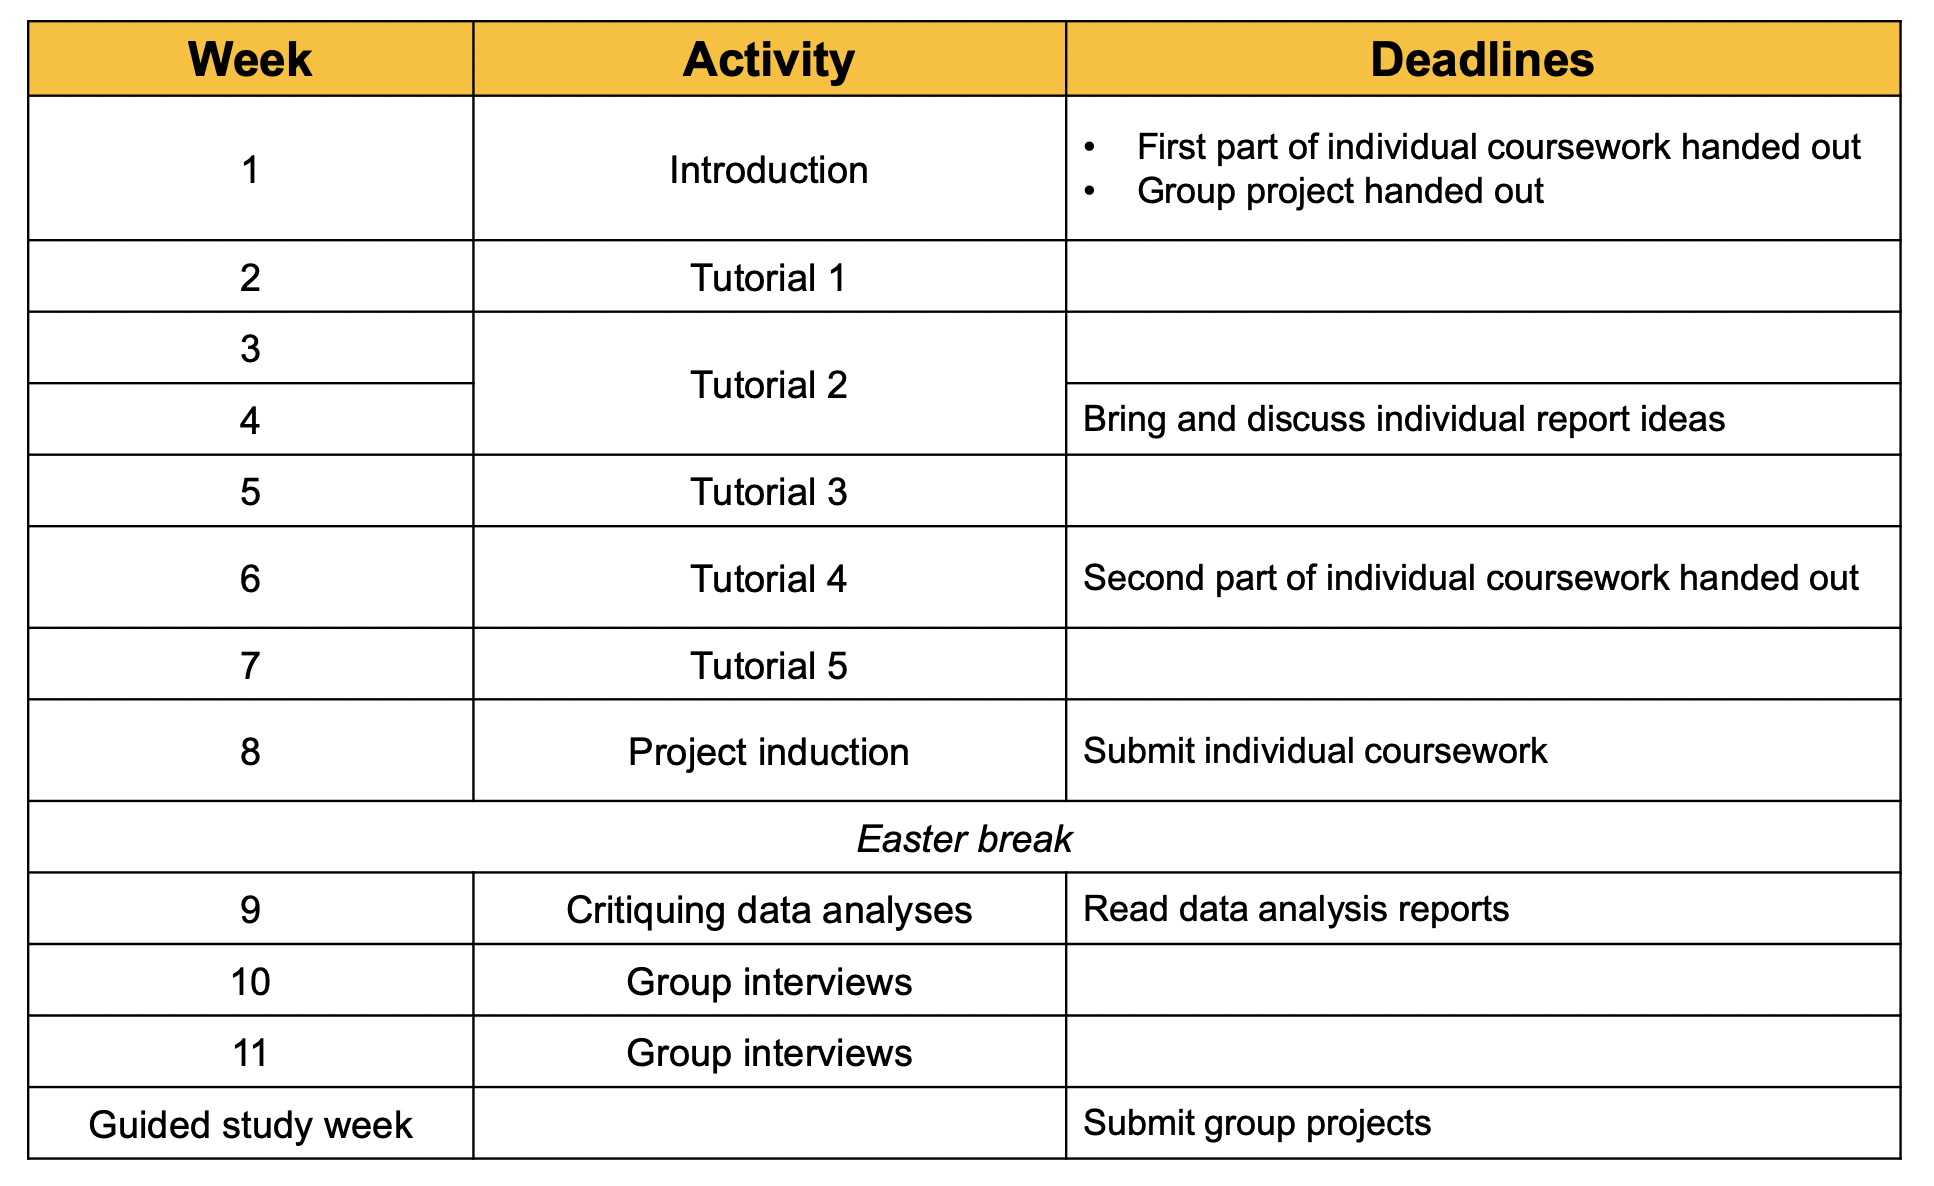
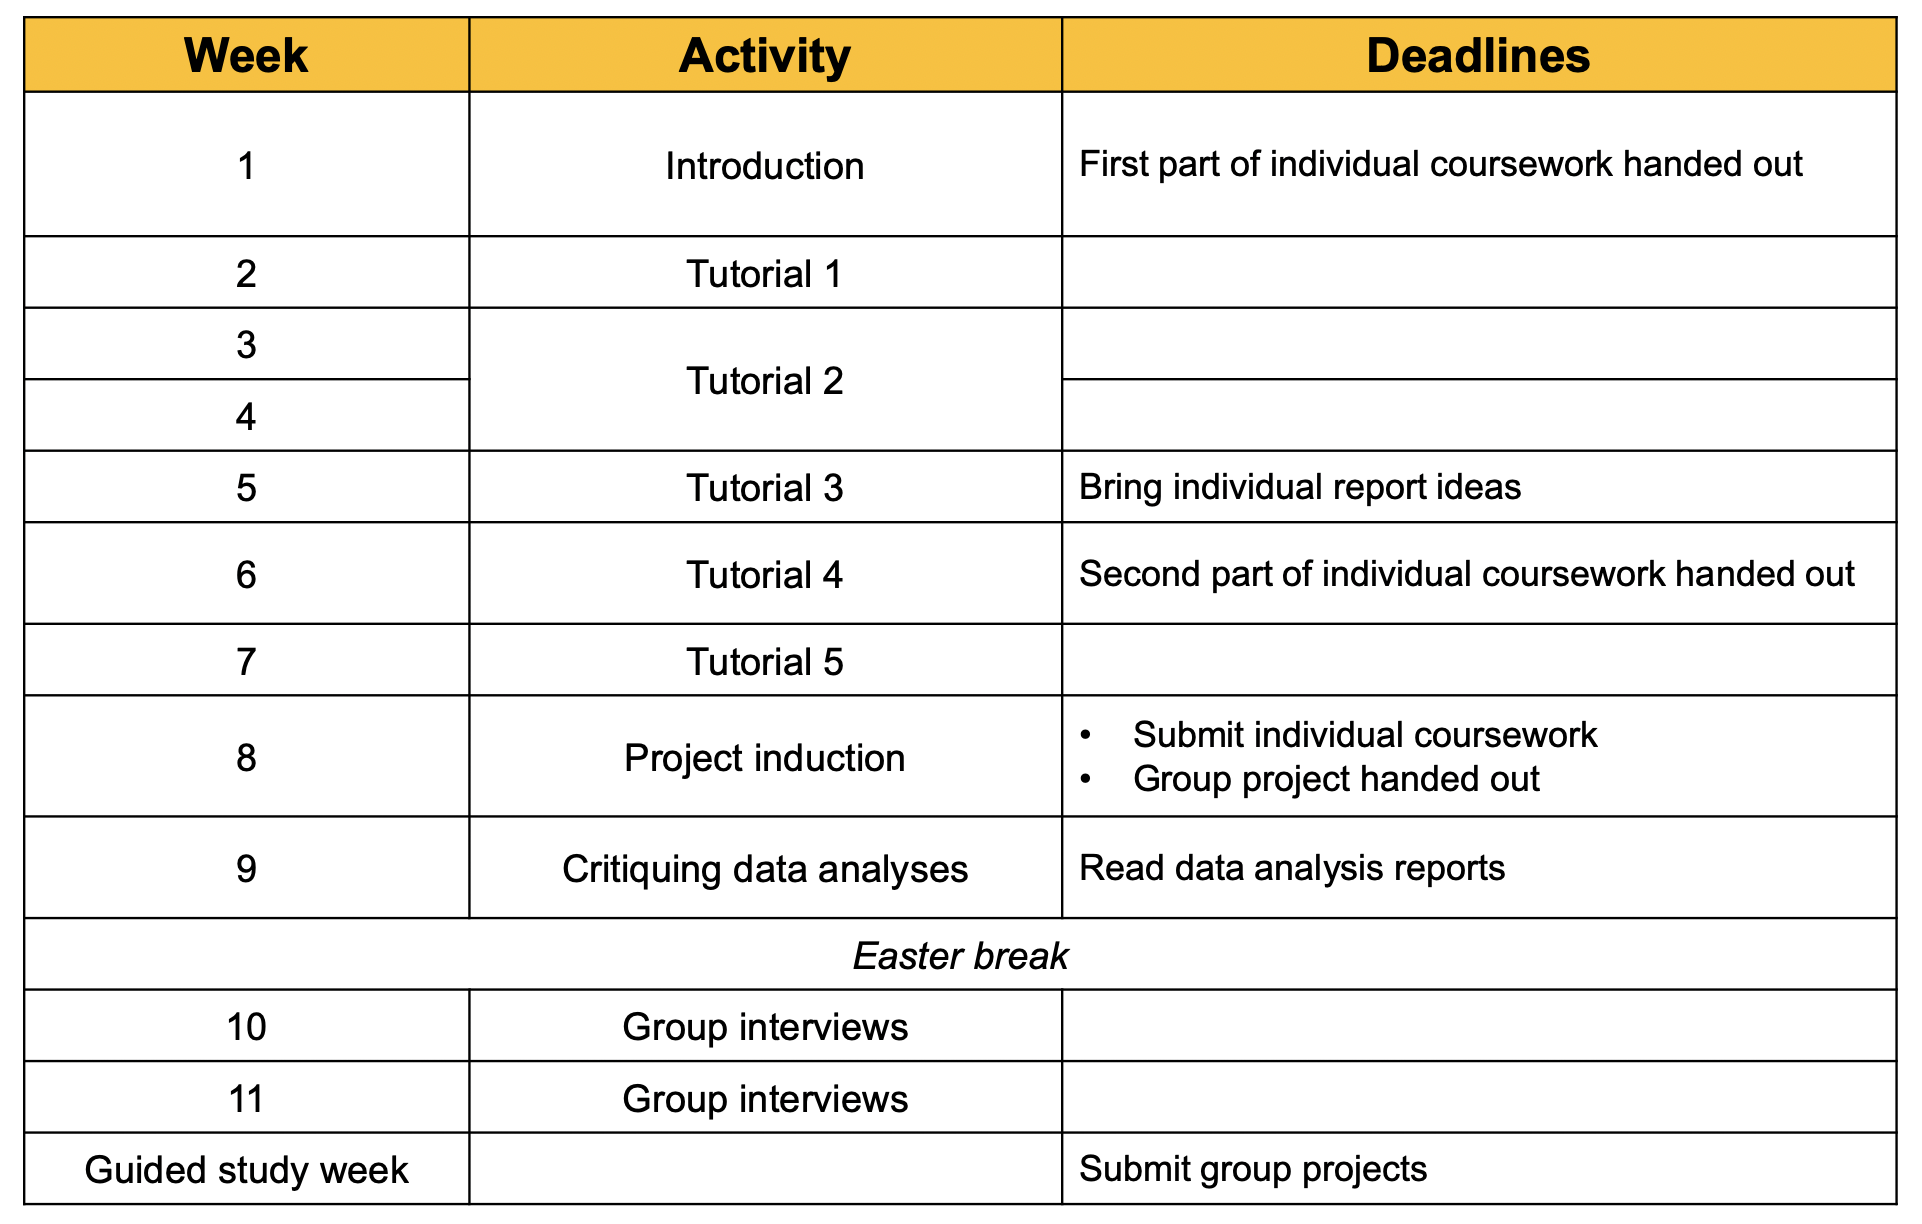
update for 2021/22

Changed region(s): [[0.0, 0.0, 0.999, 0.9983], [0.3434, 0.1248, 0.4683, 0.156], [0.1249, 0.1248, 0.1561, 0.156]]

diff --git a/index.md b/index.md
@@ -10,8 +10,10 @@ MA0004 - Preliminary Mathematics II
 Course Schedule
 ===============
 
-*All* synchronous sessions are interactive, you are expected to participate. Consider these as opportunities to discuss the content, your understanding, your tutorials, your coursework, or any other relevant or interesting topics that you discover.
-In order to facilitate this, we will following this structure:
++ **Mondays 9am-10am**: Office hours (virtual + in-person). Scheduled time for you to watch the pre-recorded videos, drop into the office hours and ask any questions about the content or the course.
++ **Tuesdays 9am-11am**: Tutorials (in-person). *All* tutorial workshops are interactive, you are expected to participate.
+
+The following structure is used:
 
 <img src="/prelim2/assets/schedule.png" width="800">{: .center-image }
 
@@ -31,7 +33,6 @@ Assessment deadlines are also given, and discussing your progress on the assessm
     + [Support when you're feeling blue](https://research.fb.com/blog/2016/02/support-when-you-re-feeling-blue/)
     + [The Great Prosperity / The Great Regression](https://www.reddit.com/r/dataisbeautiful/comments/arll4q/oc_great_prosperity_vs_great_regression_usa/)
     + [Are dogs appreciated fairly on @dog_rates](https://vknight.org/unpeudemath/math/2018/03/28/rating-dog-rates.html)
-  + Here is the [table](/prelim2/assets/CritiqueTable.pdf) we constructed together in the session.
 + ***Group Interviews***
   + Sessions are split into timetabled 15 minute slots where I will chat with each coursework group in turn.
   + Each week you will be given prompts to submit to submit different aspects of your work so far.
@@ -57,7 +58,7 @@ A - Introduction
  + [**A3 - Foundations & Recap**](https://youtu.be/IFGlR3Sg9BM)\\
    <p style="font-size: medium"><i>Recapping fractions, algebra, and summation notation.</i></p>
 
-B - Sets ([Tutorial Sheet 1](/prelim2/t1/), [Solutions](/prelim2/s1/), [Class Exercises](/assets/W1.pdf))
+B - Sets ([Tutorial Sheet 1](/prelim2/t1/))
 ------------------------------------------------------
 
  + [**B1 - Sets & Subsets**](https://youtu.be/giS4KuuW7Bc)\\
@@ -78,7 +79,7 @@ B - Sets ([Tutorial Sheet 1](/prelim2/t1/), [Solutions](/prelim2/s1/), [Class Ex
  + [**B6 - Venn Diagrams**](https://youtu.be/mG-G2QPF4Qg)\\
    <p style="font-size: medium"><i>Visualising sets with Venn and Euler diagrams.</i></p>
 
-C - Probability ([Tutorial Sheet 2](/prelim2/t2/), [Solutions](/prelim2/s2/), [Class Exercises](/assets/W2.pdf))
+C - Probability ([Tutorial Sheet 2](/prelim2/t2/))
 -------------------------------------------------------------
 
  + [**C1 - Likelihood**](https://youtu.be/cuCqyGspC0o)\\
@@ -106,7 +107,7 @@ C - Probability ([Tutorial Sheet 2](/prelim2/t2/), [Solutions](/prelim2/s2/), [C
    <p style="font-size: medium"><i>Mr Smith's children, the liar's problem, the Monte Hall problem.</i></p>
 
 
-D - Data ([Tutorial Sheet 3](/prelim2/t3/), [Solutions](/prelim2/s3/), [Class Exercises](/assets/W3.pdf))
+D - Data ([Tutorial Sheet 3](/prelim2/t3/))
 ------------------------------------------------------
 
  + [**D1 - Data Types**](https://youtu.be/rYihnx7PhO0)\\
@@ -137,7 +138,7 @@ D - Data ([Tutorial Sheet 3](/prelim2/t3/), [Solutions](/prelim2/s3/), [Class Ex
    <p style="font-size: medium"><i>When groups have different trends to the whole.</i></p>
 
 
-E - Probability Distributions ([Tutorial Sheet 4](/prelim2/t4/), [Solutions](/prelim2/s4/))
+E - Probability Distributions ([Tutorial Sheet 4](/prelim2/t4/))
 ---------------------------------------------------------------------------
 
  + [**E1 - Discrete Probability Distributions**](https://youtu.be/FYLUCIVJW_o)\\
@@ -189,11 +190,15 @@ F - Statistical Inference ([Tutorial Sheet 5](/prelim2/t5/))
 Assessment
 ==========
 
-+ Individual assessment (50%, _hand-in date **22/03/2021**_)
++ Individual assessment (50%, _hand-in date **21/03/2022**_)
   + **Part 1:** Write a one page report on an interesting probability problem of your choice (ideas below), state and solve the problem, then either extend the problem or find/create data to demonstrate the problem.
-  + **Part 2:** Complete and submit [the tutorial-style questions](/prelim2/assessment/), which will be handed out in week 6.
-+ Group project (50%, _hand-in date **13/05/2021**_)
-  + Write a 5 page data analysis report on the [hospital discharge data set](/prelim2/coursework/hospital-discharge-data.xlsx).
+  + **Part 2:** Complete and submit the tutorial-style questions, which will be handed out in week 6.
+  <!-- + **Part 2:** Complete and submit [the tutorial-style questions](/prelim2/assessment/), which will be handed out in week 6. -->
++ Group project (50%, _hand-in date **12/05/2022**_)
+  + Write a 5 page data analysis report on either.
+    + [The voting intentions data set](/prelim2/coursework/voting-data.xlsx),
+    + [The hospital discharge data set](/prelim2/coursework/hospital-discharge-data.xlsx),
+    + A data set of your choice (must be approved by the module lead).
   + Submit an [individual reflection form](/prelim2/coursework/individual-reflection-form.pdf).
 
 *The page limits are strict. If you submit a longer piece of work, I will not read past the page limit, even if that includes references.*
@@ -231,12 +236,13 @@ The individual one page report, and the five page group project, will be marked 
   </ul>
 
 
-Individual report ideas: the birthday problem, invent a casino game and describe the probabilities of winning or losing, coupon collector's problem, Bertrand's box paradox, the Mabinogion sheep problem, the aeroplane boarding problem...
+Individual report ideas: the birthday problem, invent a casino game and describe the probabilities of winning or losing, coupon collector's problem, Bertrand's box paradox, the aeroplane boarding problem...
 
----
+<!-- ---
 
 Reassessment
 ============
 
 + If you need to resit the individual coursework: Complete and submit the following [tutorial-style questions](/prelim2/reassessment/).
 + If you need to resit the group coursework: Write a 3 page data analysis report on the [housing market data set](/prelim2/coursework/housing-data.xlsx); *this resit is to be completed individually*. The above marking criteria applies.
+ -->
